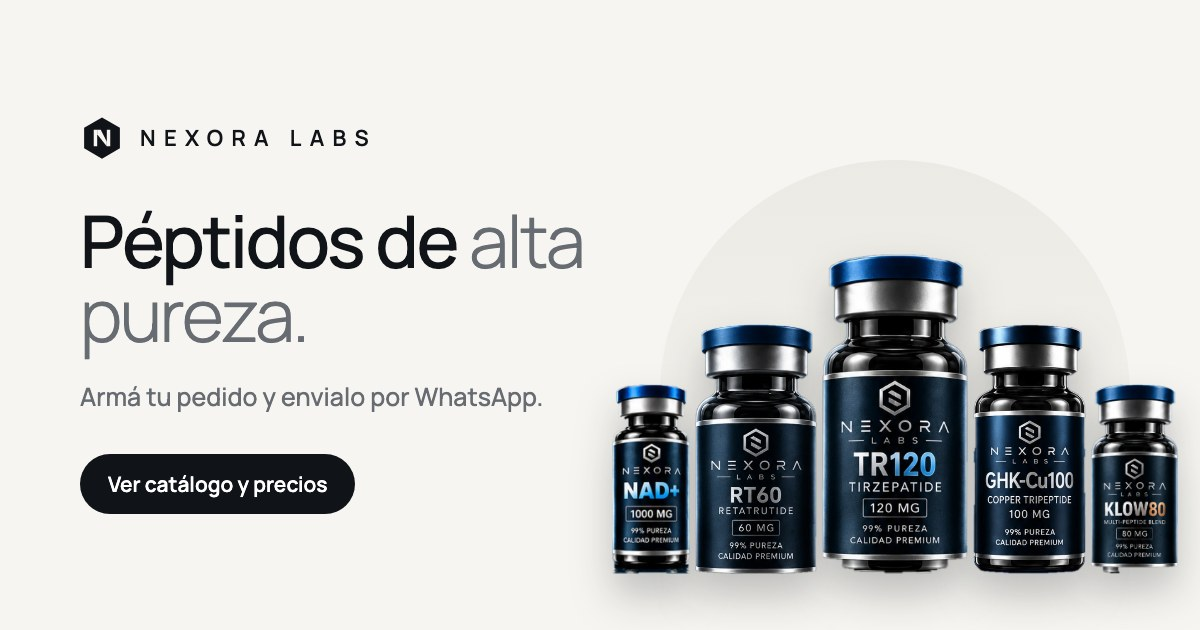
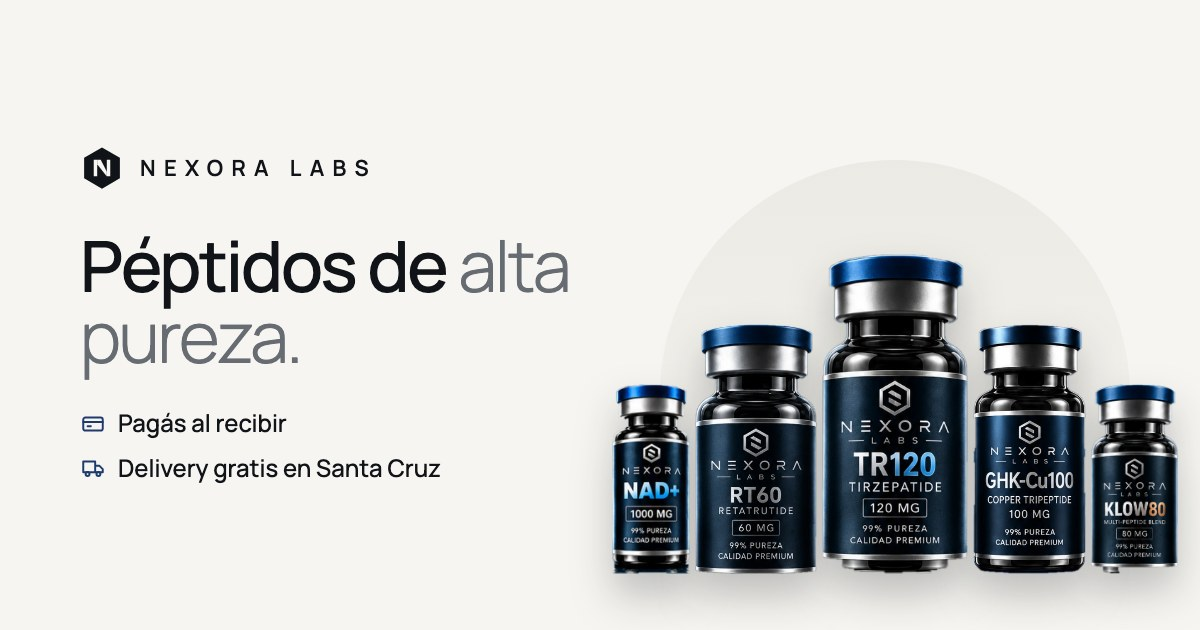
Compra segura: pago al recibir y delivery gratis en Santa Cruz
- Sección 'Compra segura' con las garantías reales del negocio
- Garantías visibles en portada, franja de confianza, detalle y pedido
- El pedido permite elegir entrega (delivery/retiro) y pago (efectivo/QR)
  y lo incluye en el mensaje de WhatsApp junto con la zona
- Preguntas frecuentes reescritas alrededor de 'no pagás por adelantado'
- Vista previa al compartir y descripción actualizadas

Changed region(s): [[0.0617, 0.3317, 0.4933, 0.8143], [0.0617, 0.181, 0.3083, 0.3016]]

diff --git a/index.html b/index.html
@@ -4,7 +4,7 @@
 <meta charset="utf-8">
 <meta name="viewport" content="width=device-width, initial-scale=1">
 <title>Nexora Labs — Péptidos de alta pureza</title>
-<meta name="description" content="Nexora Labs. Péptidos liofilizados de alta pureza. Armá tu pedido y envialo por WhatsApp. Ciencia real, resultados reales.">
+<meta name="description" content="Nexora Labs, Santa Cruz. Péptidos de alta pureza con delivery gratis en toda la ciudad. Pagás recién cuando recibís tu pedido.">
 <meta name="theme-color" content="#F6F5F1">
 <link rel="canonical" href="https://nexoratienda.netlify.app/">
 <!-- Vista previa al compartir (WhatsApp, Instagram, Facebook, X) -->
@@ -13,7 +13,7 @@
 <meta property="og:locale" content="es_BO">
 <meta property="og:url" content="https://nexoratienda.netlify.app/">
 <meta property="og:title" content="Nexora Labs — Péptidos de alta pureza">
-<meta property="og:description" content="Catálogo y precios. Armá tu pedido y envialo por WhatsApp.">
+<meta property="og:description" content="Delivery gratis en Santa Cruz. Pagás al recibir: efectivo o QR. Pedí por WhatsApp.">
 <meta property="og:image" content="https://nexoratienda.netlify.app/og-image.jpg">
 <meta property="og:image:width" content="1200">
 <meta property="og:image:height" content="630">
@@ -35,7 +35,7 @@
       NEXORA
     </a>
     <nav class="links" aria-label="Principal">
-      <a href="#productos">Productos</a><a href="#calidad">Calidad</a><a href="#precios">Precios</a><a href="#comprar">Cómo comprar</a><a href="#ayuda">Ayuda</a>
+      <a href="#productos">Productos</a><a href="#compra-segura">Compra segura</a><a href="#precios">Precios</a><a href="#comprar">Cómo comprar</a><a href="#ayuda">Ayuda</a>
     </nav>
     <div class="nav-r">
     <a class="btn btn-dark wa" href="#" target="_blank" rel="noopener" data-msg="Hola Nexora, quiero hacer una consulta.">Consultar</a>
@@ -50,7 +50,7 @@
   </div>
 </header>
 <div class="sheet" id="sheet">
-  <a href="#productos">Productos</a><a href="#calidad">Calidad</a><a href="#precios">Precios</a><a href="#comprar">Cómo comprar</a><a href="#ayuda">Ayuda</a>
+  <a href="#productos">Productos</a><a href="#compra-segura">Compra segura</a><a href="#precios">Precios</a><a href="#comprar">Cómo comprar</a><a href="#ayuda">Ayuda</a>
   <a class="btn btn-dark wa" href="#" target="_blank" rel="noopener" data-msg="Hola Nexora, quiero hacer una consulta.">Consultar por WhatsApp</a>
 </div>
 
@@ -65,16 +65,21 @@
           <svg viewBox="0 0 24 24" fill="none" stroke="currentColor" stroke-width="2"><path d="M12 5v14M6 13l6 6 6-6"/></svg></a>
         <a href="#precios" class="btn btn-ghost">Lista de precios</a>
       </div>
+      <ul class="assure" aria-label="Garantías de compra">
+        <li><svg viewBox="0 0 24 24" fill="none" stroke="currentColor" stroke-width="1.6" stroke-linecap="round" stroke-linejoin="round"><rect x="3" y="7" width="18" height="12" rx="2"/><path d="M3 11h18M7 15h3"/></svg>Pagás al recibir</li>
+        <li><svg viewBox="0 0 24 24" fill="none" stroke="currentColor" stroke-width="1.6" stroke-linecap="round" stroke-linejoin="round"><path d="M3 6h11v10H3zM14 10h4l3 3v3h-7"/><circle cx="7" cy="17.5" r="1.8"/><circle cx="17" cy="17.5" r="1.8"/></svg>Delivery gratis en Santa Cruz</li>
+        <li><svg viewBox="0 0 24 24" fill="none" stroke="currentColor" stroke-width="1.6" stroke-linecap="round" stroke-linejoin="round"><path d="M21 12a8 8 0 0 1-11.6 7.1L4 20l1-4.6A8 8 0 1 1 21 12Z"/></svg>Atención directa por WhatsApp</li>
+      </ul>
     </div>
     <div class="lineup" id="lineup" aria-hidden="true"></div>
   </div>
 
   <div class="trust">
     <div class="wrap">
+      <div><b>Pagás al recibir</b><span>Efectivo o QR, sin adelantos</span></div>
+      <div><b>Delivery gratis</b><span>En toda Santa Cruz</span></div>
+      <div><b>Precio final</b><span>Sin costos ocultos</span></div>
       <div><b>99% pureza</b><span>Calidad premium</span></div>
-      <div><b>Liofilizados</b><span>Máxima estabilidad</span></div>
-      <div><b>Almacenamiento óptimo</b><span>Estabilidad y efectividad</span></div>
-      <div><b>Estándares internacionales</b><span>Tecnología avanzada</span></div>
     </div>
   </div>
 
@@ -85,6 +90,24 @@
         <div class="chips" role="group" aria-label="Filtrar por categoría" id="chips"></div>
       </div>
       <div class="grid" id="grid"></div>
+    </div>
+  </section>
+
+  <section id="compra-segura" class="secure">
+    <div class="wrap">
+      <div class="secure-head rv">
+        <div class="eyebrow">Compra segura</div>
+        <h2>Recibís, revisás <em>y recién ahí pagás.</em></h2>
+        <p class="lead">Sabemos que comprar por internet genera dudas. Por eso no te pedimos adelantos: la confianza se gana entrega por entrega, y queremos ganarnos la tuya.</p>
+      </div>
+      <div class="secure-grid">
+        <div class="sc rv"><svg viewBox="0 0 24 24" fill="none" stroke="currentColor" stroke-width="1.6" stroke-linecap="round" stroke-linejoin="round"><rect x="3" y="7" width="18" height="12" rx="2"/><path d="M3 11h18M7 15h3"/></svg><h3>Pagás al recibir</h3><p>Pagás en efectivo o con QR en el momento de la entrega. No necesitás pagar nada por adelantado.</p></div>
+        <div class="sc rv"><svg viewBox="0 0 24 24" fill="none" stroke="currentColor" stroke-width="1.6" stroke-linecap="round" stroke-linejoin="round"><path d="M3 6h11v10H3zM14 10h4l3 3v3h-7"/><circle cx="7" cy="17.5" r="1.8"/><circle cx="17" cy="17.5" r="1.8"/></svg><h3>Delivery gratis</h3><p>Te lo llevamos sin costo a cualquier zona de Santa Cruz. Coordinamos día y horario por WhatsApp.</p></div>
+        <div class="sc rv"><svg viewBox="0 0 24 24" fill="none" stroke="currentColor" stroke-width="1.6" stroke-linecap="round" stroke-linejoin="round"><path d="M2 12s3.5-7 10-7 10 7 10 7-3.5 7-10 7S2 12 2 12Z"/><circle cx="12" cy="12" r="3"/></svg><h3>Revisás antes de pagar</h3><p>Recibís tu pedido, lo revisás con tranquilidad y recién después pagás.</p></div>
+        <div class="sc rv"><svg viewBox="0 0 24 24" fill="none" stroke="currentColor" stroke-width="1.6" stroke-linecap="round" stroke-linejoin="round"><path d="M20 12 12 20l-9-9V4h7Z"/><circle cx="7.5" cy="7.5" r="1.3"/></svg><h3>Precio final, sin sorpresas</h3><p>El precio que ves es el que pagás. El delivery no tiene costo y no hay cargos extra.</p></div>
+        <div class="sc rv"><svg viewBox="0 0 24 24" fill="none" stroke="currentColor" stroke-width="1.6" stroke-linecap="round" stroke-linejoin="round"><path d="M12 21s7-6.2 7-12a7 7 0 0 0-14 0c0 5.8 7 12 7 12Z"/><circle cx="12" cy="9" r="2.5"/></svg><h3>Retiro en persona</h3><p>Si preferís, coordinamos un punto de retiro y pagás ahí en efectivo o QR.</p></div>
+        <div class="sc rv"><svg viewBox="0 0 24 24" fill="none" stroke="currentColor" stroke-width="1.6" stroke-linecap="round" stroke-linejoin="round"><path d="M21 12a8 8 0 0 1-11.6 7.1L4 20l1-4.6A8 8 0 1 1 21 12Z"/></svg><h3>Atención directa</h3><p>Todas tus consultas se responden por WhatsApp, antes y después de tu compra.</p></div>
+      </div>
     </div>
   </section>
 
@@ -121,8 +144,8 @@
       <div class="head rv"><div><div class="eyebrow">Simple y directo</div><h2>Cómo comprar</h2></div></div>
       <div class="steps">
         <div class="step rv"><div class="n">01</div><h3>Armá tu pedido</h3><p>Sumá uno o varios productos con el botón +.</p></div>
-        <div class="step rv"><div class="n">02</div><h3>Envialo por WhatsApp</h3><p>Tu pedido llega armado. Te confirmamos stock y total, y coordinamos el pago.</p></div>
-        <div class="step rv"><div class="n">03</div><h3>Recibilo</h3><p>Coordinamos la entrega o el envío a tu ciudad, también por WhatsApp.</p></div>
+        <div class="step rv"><div class="n">02</div><h3>Envialo por WhatsApp</h3><p>Tu pedido llega armado. Te confirmamos stock y coordinamos día y horario de entrega.</p></div>
+        <div class="step rv"><div class="n">03</div><h3>Recibí y pagá</h3><p>Te lo llevamos gratis en Santa Cruz. Revisás tu pedido y pagás ahí: efectivo o QR.</p></div>
       </div>
     </div>
   </section>
@@ -132,15 +155,15 @@
       <div class="rv">
         <div class="eyebrow">Atención por WhatsApp</div>
         <h2>Preguntas frecuentes</h2>
-        <p class="lead">Toda la atención, los pagos y las entregas se coordinan por WhatsApp. Te respondemos personalmente.</p>
+        <p class="lead">Delivery gratis en Santa Cruz y pago al recibir. Toda la atención es por WhatsApp.</p>
         <a class="btn btn-dark wa" href="#" target="_blank" rel="noopener" data-msg="Hola Nexora, tengo una consulta.">Escribinos</a>
       </div>
       <div class="faq rv">
-        <details><summary>¿Cómo hago un pedido?</summary><p>Agregá los productos con el botón <b>+</b>, tocá <b>Ver pedido</b> y envialo por WhatsApp. El mensaje llega con tus productos, cantidades y total; nosotros te confirmamos stock y te guiamos en el resto.</p></details>
-        <details><summary>¿Cómo pago?</summary><p>El pago se coordina por WhatsApp una vez confirmado tu pedido. Ahí te enviamos los datos y las opciones de pago disponibles.</p></details>
-        <details><summary>¿Hacen envíos?</summary><p>Coordinamos la entrega o el envío según tu ciudad. Antes de pagar te confirmamos el costo y el tiempo de entrega.</p></details>
+        <details><summary>¿Tengo que pagar por adelantado?</summary><p><b>No.</b> Pagás cuando recibís tu pedido, en efectivo o con QR. Primero lo revisás y después pagás.</p></details>
+        <details><summary>¿Cuánto cuesta el delivery?</summary><p>Nada. El delivery es <b>gratis en toda Santa Cruz</b>. Si preferís, también podés retirar en persona en un punto que coordinamos.</p></details>
+        <details><summary>¿Cómo hago un pedido?</summary><p>Agregá los productos con el botón <b>+</b>, tocá <b>Ver pedido</b>, elegí entrega y forma de pago, y envialo por WhatsApp. Te confirmamos stock y coordinamos día y horario.</p></details>
+        <details><summary>¿Cómo sé que es seguro comprarles?</summary><p>Porque no arriesgás tu dinero: no pedimos adelantos. Recibís el producto, lo revisás y recién ahí pagás. Además, podés escribirnos antes para resolver cualquier duda.</p></details>
         <details><summary>¿Cómo se conservan los productos?</summary><p>Son péptidos liofilizados. Con tu pedido te pasamos las indicaciones de conservación; en general se guardan refrigerados (2–8 °C), sin congelar y protegidos de la luz.</p></details>
-        <details><summary>¿Cómo sé que el producto es de calidad?</summary><p>Trabajamos con péptidos de 99% de pureza y trazabilidad en cada lote. Si tenés cualquier duda sobre un producto, escribinos y te respondemos.</p></details>
         <details><summary>¿Puedo consultar antes de comprar?</summary><p>Sí. Escribinos por WhatsApp, sin compromiso, y te ayudamos a elegir el producto indicado.</p></details>
       </div>
     </div>
@@ -152,7 +175,7 @@
         <div>
           <div class="eyebrow">Tu mejor versión es ahora</div>
           <h2>Disciplina hoy. Un mejor mañana.</h2>
-          <p>Escribinos y te asesoramos para elegir el producto indicado.</p>
+          <p>Escribinos y te asesoramos. Delivery gratis en Santa Cruz y pagás recién al recibir.</p>
           <a class="btn wa" href="#" target="_blank" rel="noopener" data-msg="Hola Nexora, quiero asesoramiento para elegir un producto.">
             <svg viewBox="0 0 24 24" fill="currentColor"><path d="M12 2a10 10 0 0 0-8.6 15.1L2 22l5-1.3A10 10 0 1 0 12 2Zm5.3 14.1c-.2.6-1.3 1.2-1.8 1.2-.5.1-1 .2-3.3-.7-2.8-1.1-4.6-4-4.7-4.2-.1-.2-1.1-1.5-1.1-2.9s.7-2 1-2.3c.2-.3.5-.3.7-.3h.5c.2 0 .4 0 .6.5l.8 2c.1.2.1.4 0 .5l-.4.6-.4.4c-.1.2-.3.3-.1.6.2.3.8 1.3 1.7 2.1 1.2 1 2.1 1.3 2.4 1.5.3.1.5.1.6-.1l.9-1c.2-.3.4-.2.6-.1l1.9.9c.3.1.5.2.5.3.1.2.1.8-.2 1.4Z"/></svg>
             Hablar por WhatsApp</a>
@@ -172,15 +195,15 @@
     <div class="top">
       <div>
         <div class="brand"><svg class="mark" viewBox="0 0 64 64" aria-hidden="true"><path d="M32 2 58 17v30L32 62 6 47V17Z"/><g class="n"><rect x="20" y="20" width="5" height="24"/><rect x="39" y="20" width="5" height="24"/><path d="M25 20h5.2l8.8 17.5V44h-.2L25 26.5Z"/></g></svg>NEXORA LABS</div>
-        <p style="margin-top:14px;max-width:34ch">Péptidos de alta pureza. Ciencia · Salud · Una mejor versión de ti.</p>
+        <p style="margin-top:14px;max-width:36ch">Péptidos de alta pureza en Santa Cruz de la Sierra, Bolivia. Delivery gratis y pago al recibir.</p>
       </div>
-      <nav aria-label="Pie"><a href="#productos">Productos</a><a href="#calidad">Calidad</a><a href="#precios">Precios</a><a href="#" class="wa" target="_blank" rel="noopener" data-msg="Hola Nexora, quiero hacer una consulta.">WhatsApp</a></nav>
+      <nav aria-label="Pie"><a href="#productos">Productos</a><a href="#compra-segura">Compra segura</a><a href="#precios">Precios</a><a href="#" class="wa" target="_blank" rel="noopener" data-msg="Hola Nexora, quiero hacer una consulta.">WhatsApp</a></nav>
     </div>
     <div class="legal">
       <p><b>Aviso.</b> La información de esta web es orientativa y no reemplaza la consulta con un profesional de la salud. Consultá a tu médico antes de usar cualquier producto.</p>
       <p><b>Privacidad.</b> No usamos formularios ni guardamos tus datos: tu pedido queda solo en tu navegador hasta que lo enviás por WhatsApp.</p>
     </div>
-    <div class="bottom"><span>© <span id="y"></span> Nexora Labs</span><span>Atención, pagos y entregas por WhatsApp</span></div>
+    <div class="bottom"><span>© <span id="y"></span> Nexora Labs</span><span>Santa Cruz de la Sierra · Atención por WhatsApp</span></div>
   </div>
 </footer>
 
@@ -195,7 +218,7 @@
       <p class="tagline" id="mTag"></p>
       <ul id="mList"></ul>
       <div class="m-foot">
-        <div><div class="eyebrow" style="font-size:11px">Precio final</div><div class="price" id="mPrice"></div></div>
+        <div><div class="eyebrow" style="font-size:11px">Precio final</div><div class="price" id="mPrice"></div><div class="m-assure">Delivery gratis · Pagás al recibir</div></div>
         <div class="acts">
           <button class="btn btn-dark" id="mAdd"></button>
           <a class="alt" id="mAsk" target="_blank" rel="noopener">o consultar solo este producto</a>
@@ -213,11 +236,14 @@
   <div class="bag-list" id="bagList"></div>
   <div class="bag-f" id="bagFoot">
     <div class="tot"><span class="eyebrow">Total</span><span class="price" id="bagTotal"></span></div>
+    <div class="opt"><span class="opt-l">Entrega</span><div class="seg" id="segEntrega" role="radiogroup" aria-label="Entrega"></div></div>
+    <div class="opt"><span class="opt-l">Pago</span><div class="seg" id="segPago" role="radiogroup" aria-label="Forma de pago"></div></div>
     <input class="field" id="fName" placeholder="Tu nombre (opcional)" autocomplete="name">
-    <input class="field" id="fNote" placeholder="Ciudad o comentario (opcional)">
+    <input class="field" id="fNote" placeholder="Zona o barrio (opcional)">
     <a class="btn btn-dark" id="bagSend" target="_blank" rel="noopener">
       <svg viewBox="0 0 24 24" fill="currentColor"><path d="M12 2a10 10 0 0 0-8.6 15.1L2 22l5-1.3A10 10 0 1 0 12 2Zm5.3 14.1c-.2.6-1.3 1.2-1.8 1.2-.5.1-1 .2-3.3-.7-2.8-1.1-4.6-4-4.7-4.2-.1-.2-1.1-1.5-1.1-2.9s.7-2 1-2.3c.2-.3.5-.3.7-.3h.5c.2 0 .4 0 .6.5l.8 2c.1.2.1.4 0 .5l-.4.6-.4.4c-.1.2-.3.3-.1.6.2.3.8 1.3 1.7 2.1 1.2 1 2.1 1.3 2.4 1.5.3.1.5.1.6-.1l.9-1c.2-.3.4-.2.6-.1l1.9.9c.3.1.5.2.5.3.1.2.1.8-.2 1.4Z"/></svg>
       Enviar pedido por WhatsApp</a>
+    <p class="bag-assure"><svg viewBox="0 0 24 24" fill="none" stroke="currentColor" stroke-width="1.6" stroke-linecap="round" stroke-linejoin="round"><path d="M12 3 4 6v6c0 4.5 3.4 8 8 9 4.6-1 8-4.5 8-9V6Z"/><path d="m9 12 2 2 4-4"/></svg>No pagás nada ahora. Pagás cuando recibís tu pedido.</p>
     <p class="sent" id="bagSent">¿Ya enviaste el mensaje? Podés vaciar el pedido.</p>
     <button class="clear" id="bagClear">Vaciar pedido</button>
   </div>

diff --git a/css/styles.css b/css/styles.css
@@ -288,7 +288,7 @@ footer .bottom{margin-top:26px;border-top:1px solid var(--line)}
 
 /* BOTÓN FLOTANTE DE WHATSAPP */
 .fab{position:fixed;right:18px;bottom:18px;z-index:44;width:56px;height:56px;border-radius:50%;background:var(--ink);color:#fff;
-  display:flex;align-items:center;justify-content:center;box-shadow:0 18px 36px -14px rgba(16,19,23,.6);
+  display:flex;align-items:center;justify-content:center;border:1px solid rgba(255,255,255,.22);box-shadow:0 18px 36px -14px rgba(16,19,23,.6);
   transition:transform .4s var(--ease),opacity .3s}
 .fab svg{width:26px;height:26px}
 .fab:hover{transform:translateY(-3px)}
@@ -303,3 +303,35 @@ body.has-bar .fab{opacity:0;pointer-events:none;transform:translateY(20px)}
 .sent{display:none;text-align:center;font-size:13px;color:var(--mute);margin-top:14px}
 #bag.was-sent .sent{display:block}
 #bag.was-sent .clear{margin-top:6px;color:var(--ink);font-weight:600}
+
+/* CONFIANZA — garantías del hero */
+.assure{list-style:none;display:flex;justify-content:center;flex-wrap:wrap;gap:10px 26px;margin-top:30px;font-size:14.5px;color:var(--ink);font-weight:500}
+.assure li{display:inline-flex;align-items:center;gap:8px}
+.assure svg{width:18px;height:18px;color:var(--accent)}
+
+/* CONFIANZA — sección compra segura */
+.secure{background:var(--ink);color:#fff}
+.secure .eyebrow{color:#9CA2AB}
+.secure-head{max-width:760px}
+.secure-head h2{font-size:clamp(36px,5vw,64px);margin-top:16px}
+.secure-head h2 em{font-style:normal;color:#9CA2AB;font-weight:300}
+.secure-head .lead{color:#B5BAC1;font-size:18px;margin-top:22px;max-width:52ch}
+.secure-grid{display:grid;grid-template-columns:repeat(3,minmax(0,1fr));gap:1px;background:rgba(255,255,255,.12);
+  border:1px solid rgba(255,255,255,.12);border-radius:var(--radius);overflow:hidden;margin-top:56px}
+@media (max-width:900px){ .secure-grid{grid-template-columns:repeat(2,minmax(0,1fr))} }
+@media (max-width:560px){ .secure-grid{grid-template-columns:1fr} }
+.sc{background:var(--ink);padding:34px 30px}
+.sc svg{width:28px;height:28px;color:#fff;opacity:.9}
+.sc h3{font-size:20px;font-weight:600;margin-top:26px;letter-spacing:-.01em}
+.sc p{color:#AEB3BA;font-size:15px;margin-top:8px}
+
+/* CONFIANZA — detalle y pedido */
+.m-assure{font-size:13px;color:var(--mute);margin-top:4px}
+.opt{display:flex;align-items:center;justify-content:space-between;gap:12px;margin-bottom:10px}
+.opt-l{font-size:12px;letter-spacing:.2em;text-transform:uppercase;color:var(--mute);font-weight:600}
+.seg{display:inline-flex;background:var(--bg);border:1px solid var(--line);border-radius:999px;padding:3px}
+.seg button{height:34px;padding:0 14px;border-radius:999px;font-size:13.5px;font-weight:600;color:var(--mute);white-space:nowrap}
+.seg button[aria-checked="true"]{background:var(--surface);color:var(--ink);box-shadow:0 1px 3px rgba(16,19,23,.14)}
+@media (max-width:380px){ .seg button{padding:0 10px;font-size:12.5px} }
+.bag-assure{display:flex;align-items:center;justify-content:center;gap:8px;font-size:13px;color:var(--ink);font-weight:500;margin-top:12px}
+.bag-assure svg{width:16px;height:16px;color:var(--accent);flex:none}

diff --git a/js/app.js b/js/app.js
@@ -20,14 +20,27 @@ const items = () => Object.entries(cart).map(([id, q]) => ({ p: byId(id), q }));
 const count = () => items().reduce((a, x) => a + x.q, 0);
 const total = () => items().reduce((a, x) => a + x.q * x.p.price, 0);
 
+// Opciones elegidas en el pedido (entrega y pago), recordadas en este navegador
+let choice = { entrega: NEGOCIO.entrega[0], pago: NEGOCIO.pago[0] };
+try { Object.assign(choice, JSON.parse(localStorage.getItem("nexora_choice") || "{}")); } catch (e) {}
+if (!NEGOCIO.entrega.includes(choice.entrega)) choice.entrega = NEGOCIO.entrega[0];
+if (!NEGOCIO.pago.includes(choice.pago)) choice.pago = NEGOCIO.pago[0];
+
 function orderMessage() {
   const lines = items().map(({p, q}) => `• ${q} × ${p.name} (${p.sub}, ${p.mg}) — Bs ${fmt(q * p.price)}`);
   const name = $("#fName").value.trim(), note = $("#fNote").value.trim();
-  const out = ["Hola Nexora, quiero hacer este pedido:", "", ...lines, "", `Total: Bs ${fmt(total())}`];
+  const out = ["Hola Nexora, quiero hacer este pedido:", "", ...lines, "", `Total: Bs ${fmt(total())}`,
+    `Entrega: ${choice.entrega}${choice.entrega.startsWith("Delivery") ? ` (${NEGOCIO.ciudad})` : ""}`,
+    `Pago: ${choice.pago}`];
+  if (note) out.push(`Zona: ${note}`);
   if (name) out.push(`Nombre: ${name}`);
-  if (note) out.push(`Comentario: ${note}`);
-  out.push("", "¿Me confirman stock, forma de pago y entrega? Gracias.");
+  out.push("", "¿Me confirman disponibilidad y horario de entrega? Gracias.");
   return out.join("\n");
+}
+
+function renderSeg(el, key) {
+  el.innerHTML = NEGOCIO[key].map(v =>
+    `<button type="button" role="radio" aria-checked="${choice[key] === v}" data-seg="${key}">${v}</button>`).join("");
 }
 
 function setQty(id, q) {
@@ -74,6 +87,8 @@ function sync() {
       </div>`).join("");
     $("#bagTotal").innerHTML = bs(total());
   }
+  renderSeg($("#segEntrega"), "entrega");
+  renderSeg($("#segPago"), "pago");
   updateSend();
 }
 function updateSend() { if (count()) $("#bagSend").href = wa(orderMessage()); }
@@ -132,6 +147,8 @@ document.addEventListener("click", e=>{
   const inc = t.closest("[data-inc]"); if (inc) { setQty(inc.dataset.inc, (cart[inc.dataset.inc]||0)+1); return; }
   const dec = t.closest("[data-dec]"); if (dec) { setQty(dec.dataset.dec, (cart[dec.dataset.dec]||0)-1); return; }
   const rm = t.closest("[data-rm]"); if (rm) { setQty(rm.dataset.rm, 0); return; }
+  const sg = t.closest("[data-seg]");
+  if (sg) { choice[sg.dataset.seg] = sg.textContent; try { localStorage.setItem("nexora_choice", JSON.stringify(choice)); } catch (e) {} sync(); return; }
   const c = t.closest("[data-close]"); if (c) { c.closest("dialog").close(); return; }
 });
 $("#mAdd").onclick = () => add(modal.dataset.id);

diff --git a/js/productos.js b/js/productos.js
@@ -17,6 +17,15 @@
 // Número de WhatsApp: código de país + número, sin + ni espacios
 const WHATSAPP = "59157022195";
 
+// Datos del negocio: se usan en el pedido y el mensaje de WhatsApp.
+// Si cambia algo (por ejemplo, dejás de hacer delivery gratis), cambialo acá
+// y revisá también los textos de index.html (secciones "confianza" y "ayuda").
+const NEGOCIO = {
+  ciudad: "Santa Cruz",
+  entrega: ["Delivery gratis", "Retiro en persona"],
+  pago: ["Efectivo al recibir", "QR al recibir"],
+};
+
 // Categorías (filtros del catálogo). Clave: nombre visible.
 const CATS = { met:"Metabólico", rec:"Recuperación", est:"Estética", bien:"Bienestar" };
 // Productos, en el orden en que aparecen en la web.

diff --git a/CLAUDE.md b/CLAUDE.md
@@ -9,7 +9,9 @@ Sitio estático de una página (sin build, sin dependencias). El usuario habla e
 - `css/styles.css`: tokens en `:root`; estética blanca cálida minimalista (bg `#F6F5F1`, tinta `#101317`, acento `#1F3A6E`, fuente Manrope).
 - `assets/productos/*.webp`: frascos recortados con fondo transparente, ~900px de alto.
 - Logo: hexágono sólido con N en negativo (SVG inline `.mark` en header/footer; archivos en `assets/logo/`, `favicon.svg`, `apple-touch-icon.png`).
-- Atención, pagos y entregas: todo por WhatsApp (sección `#ayuda` con preguntas frecuentes, botón flotante `#fab`). No inventar ciudades, costos ni medios de pago: el usuario no los definió.
+- Negocio (confirmado por el usuario): Santa Cruz de la Sierra, Bolivia. Pagos: efectivo al recibir, QR al recibir, efectivo al retirar (contra entrega, sin adelantos). Entrega: delivery gratis en toda la ciudad o retiro en persona. Sin envíos a otras ciudades. Marca sin cara visible (no mostrar datos personales).
+- Confianza: sección `#compra-segura` (fondo oscuro), garantías en hero (`.assure`), franja `.trust`, preguntas en `#ayuda`, opciones Entrega/Pago en el pedido (`NEGOCIO` en `productos.js`). Si cambian las condiciones, actualizar todos esos textos + og:description + og-image.jpg.
+- No inventar testimonios, cantidades de clientes ni garantías que el usuario no confirmó.
 
 ## Convenciones
 - Mantener la estética minimalista: mucho aire, pocas palabras, un frasco protagonista, sin saturar.
